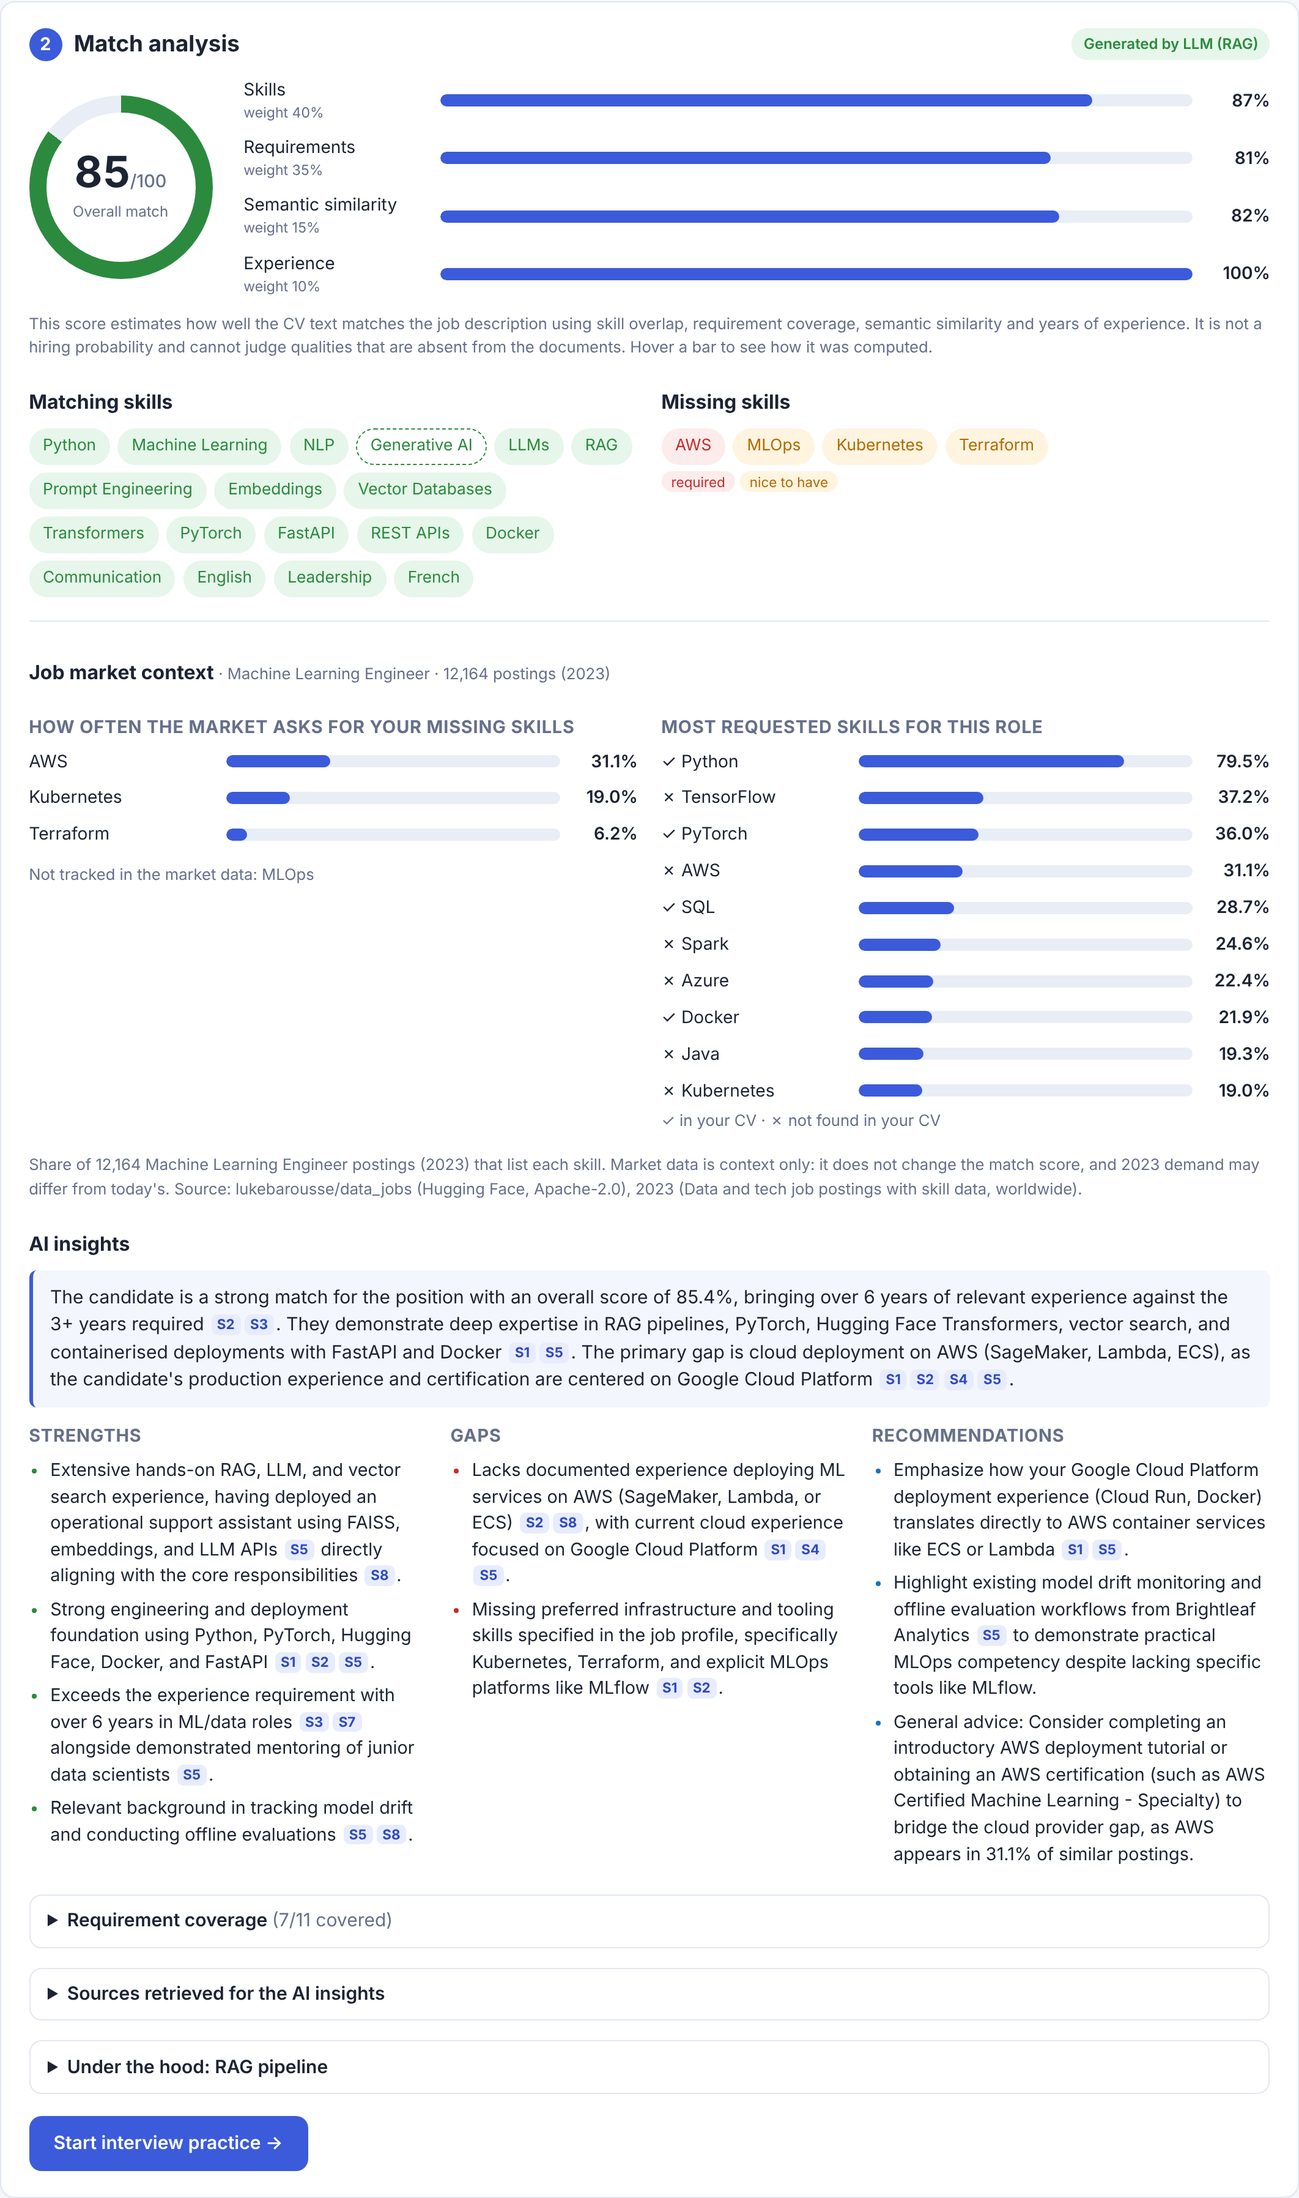
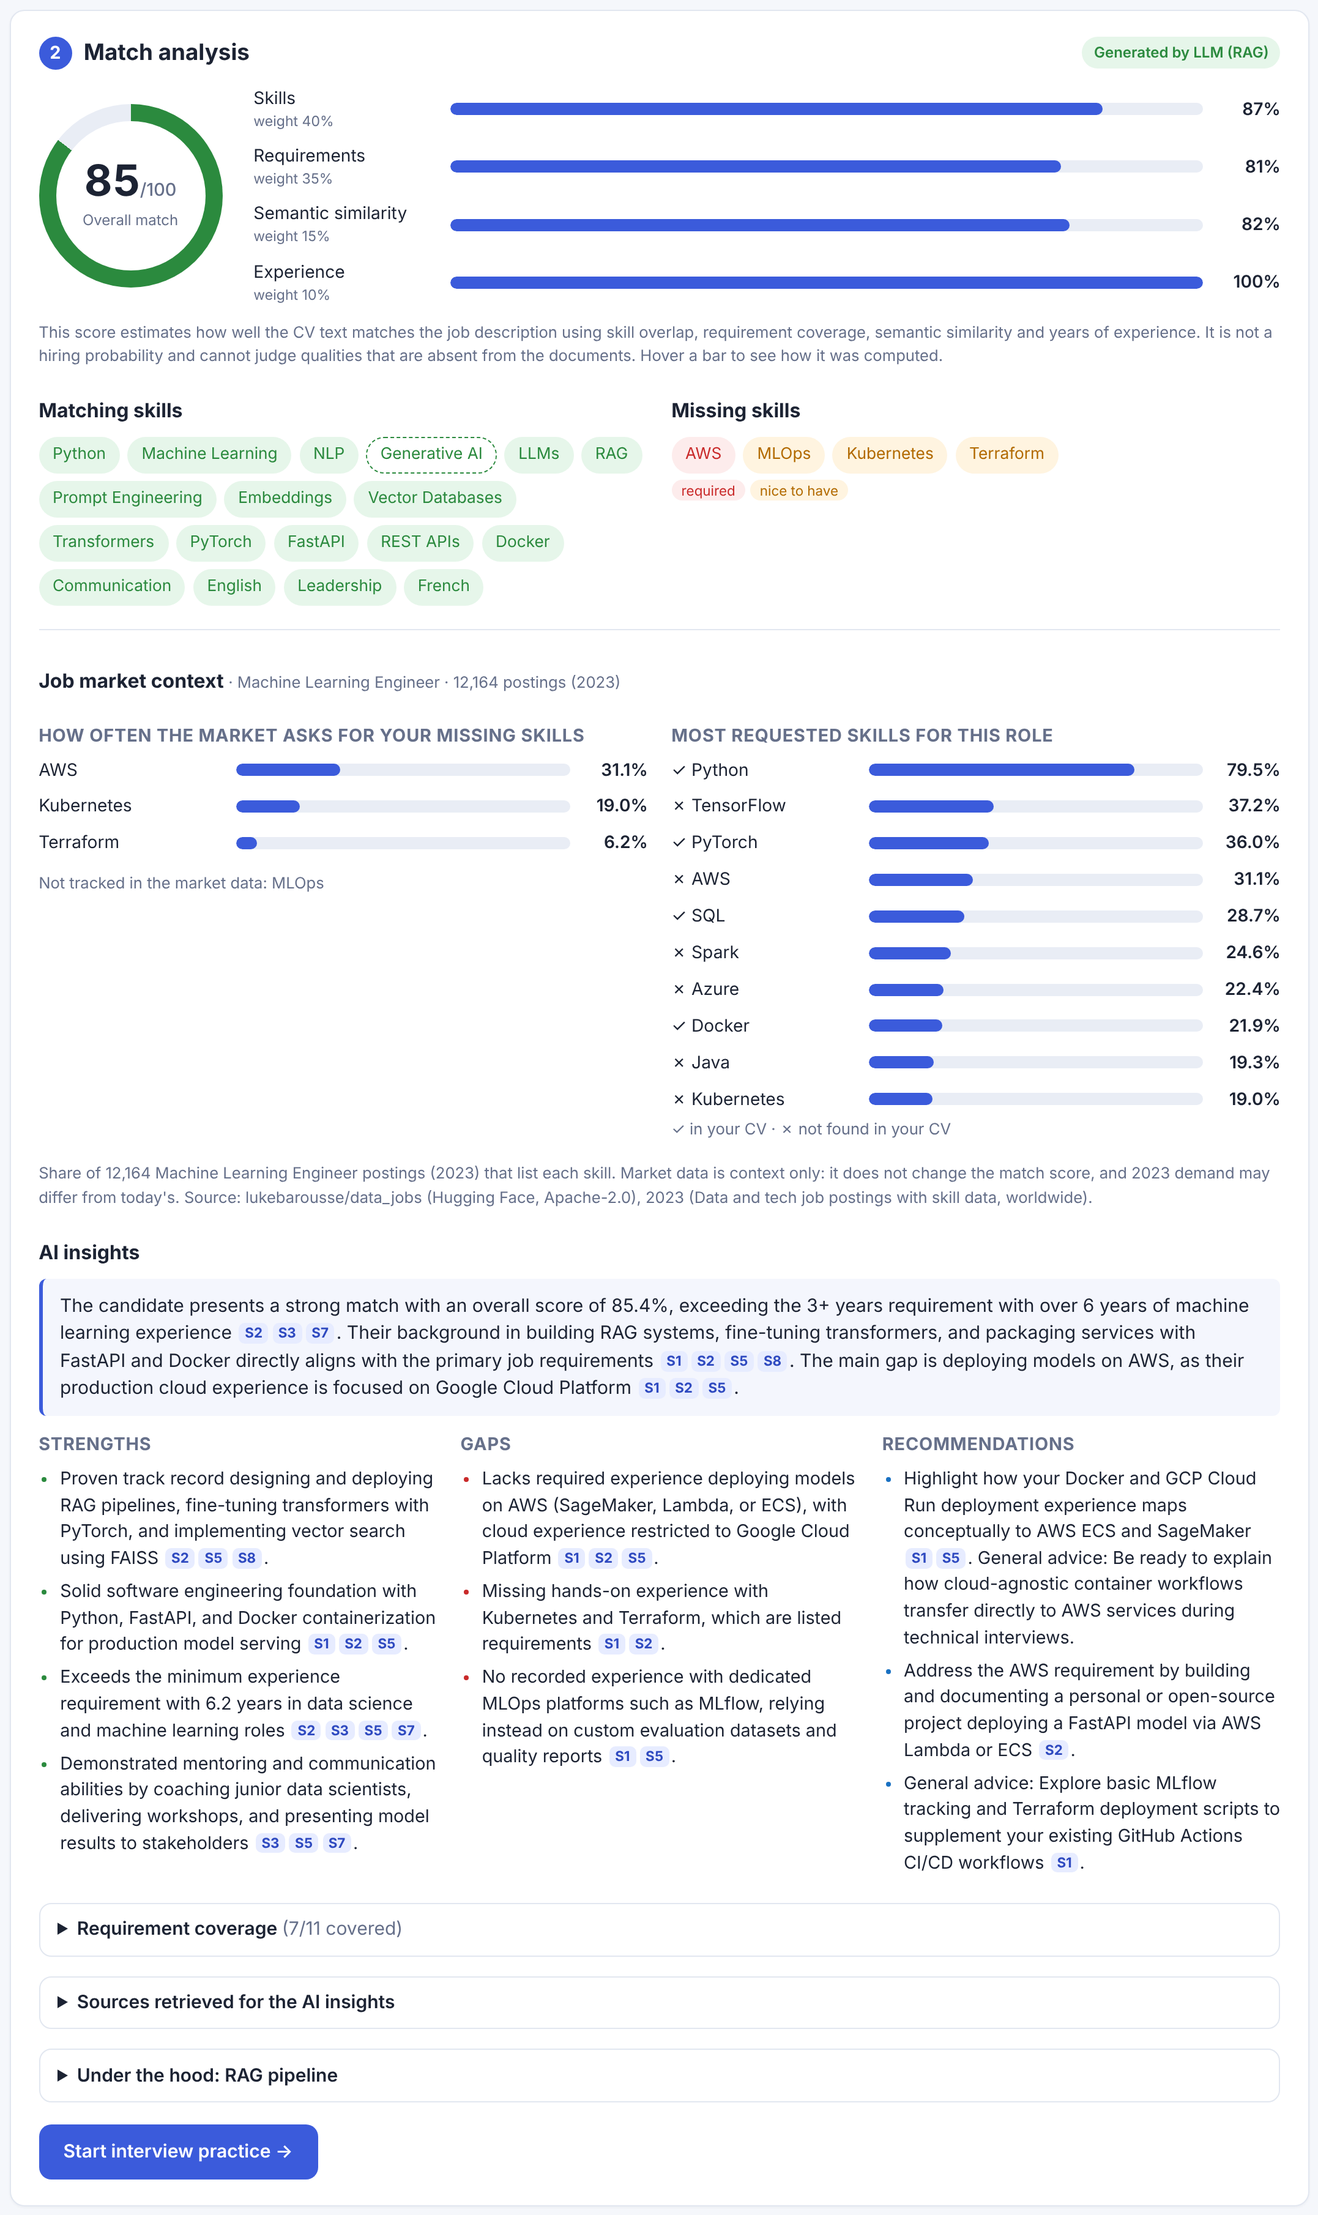
Document the Cloud Run deployment and add the verified 3:30 video script
- deploy/cloudrun/README.md: how the coach was deployed on Google Cloud
  Run (build from the repo's Dockerfile, Gemini key added without echoing
  it, checks, cold start, quota, costs). Hugging Face now requires a paid
  plan for Docker Spaces; its kit says so and points here.
- README, compliance audit, slide content, portfolio entry, Trello board
  and demo checklist: link to the live app.
- docs/screenshots: analysis, market context and interview feedback
  retaken on the live app with the sample documents and Gemini.
- Demo script: 3:30 video version; every number was checked on the live
  app and the published dashboard.

Claude-Session: https://claude.ai/code/session_01QCdrnMazZD32zhQhggebxX

diff --git a/demo_day/DEMO_SCRIPT.md b/demo_day/DEMO_SCRIPT.md
@@ -8,7 +8,7 @@
 | Project brief | Reliable **2–3 minute** live demo, expandable to **15–20 minutes** |
 | Later brief | Demo video of **3–4 minutes** |
 
-This script is therefore written as a **2-minute core**. Optional blocks extend it to about 3:30 if a longer video is allowed. Timings are targets; check them with a stopwatch during rehearsal.
+This file has a **2-minute core** for a live demo and a **3:30 video** version (below) for the 3–4 minute video. Timings are targets; check them with a stopwatch during rehearsal.
 
 All numbers below come from the project's saved results:
 - dashboard values: `dashboard/tableau/EXPECTED_VALUES.md`;
@@ -19,7 +19,7 @@ All numbers below come from the project's saved results:
 ## Before recording or going on stage (checklist)
 
 - [ ] `.env` contains a working LLM configuration. Check that the badge top-right shows `gemini-flash-latest` (or your model), not "offline".
-- [ ] `uvicorn app.main:app` is running. Run **one analysis beforehand** (it warms up the embedding model), then reload the page.
+- [ ] The app is running: the live app on Cloud Run (<https://ai-job-interview-coach-291756431151.europe-west1.run.app/>, open it a few minutes early because it sleeps when idle) or `uvicorn app.main:app` locally. Run **one analysis beforehand** (it warms up the embedding model), then reload the page.
 - [ ] The Tableau Public dashboard is open in a second tab: Dashboard 1, no filters.
 - [ ] The demo answer (step 6) is in the clipboard.
 - [ ] Browser zoom at 110–125 % so text is readable on a projector or video; notifications off.
@@ -54,6 +54,29 @@ Insert them after 0:40 (data) or after 2:00 (behind the scenes).
 | +25 s | Figure `reports/figures/stats/C_senior_skill_odds_ratios.png` | "Is AWS a senior skill? Statistically, yes: a Cochran-Mantel-Haenszel test within each role gives an odds ratio of 1.47 for senior postings. The effect is real but moderate, and I report effect sizes, not just p-values." |
 | +25 s | Figure `reports/figures/ml/ML_confusion_matrix.png` | "Can skills predict a role? A gradient-boosting classifier reaches a macro-F1 of 0.39 against 0.14 for a random baseline. Skills carry real information, but Data Analyst, Engineer and Scientist overlap heavily, which is itself an insight." |
 | +20 s | Coach → **Under the hood** and **Sources** panels | "Everything the AI says is grounded: sources are numbered, outputs are validated JSON, and if the LLM fails the app falls back to a labelled offline mode. The project has 195 automated tests." |
+
+---
+
+## 3:30 video (all numbers checked on the live app and the published dashboard, 2026-10-15)
+
+Use this version for a 3–4 minute video. Open beforehand: the deck, the [Tableau Public dashboard](https://public.tableau.com/app/profile/raphael.zafran/viz/AIJobMarketInterviewCoachMarketDashboards/D1-Overview) (no filters) and the [live app](https://ai-job-interview-coach-291756431151.europe-west1.run.app/), with one analysis already run to wake it up.
+
+| Time | Screen and clicks | What to say (≈ 480 words) |
+|---|---|---|
+| 0:00–0:15 | Title slide | "Job seekers prepare for interviews blindly: they don't know what employers ask for, how their CV fits a job, or which questions will come. I built the **AI Job Market & Interview Coach**: it goes from job-market data to personalised interview practice." |
+| 0:15–0:50 | Tableau **D1**, no filters → Role Family = **Data Engineer** → Country Group = **Germany** | "First, the market. I collected about 788,000 postings from two public sources, cleaned them with pandas and loaded them into PostgreSQL. Across 2023 data roles, SQL appears in 57.7 % of postings. For Data Engineers it rises to 67.5 %, Python 65 %, AWS 39 %. Add Germany, and Azure, at 36 %, overtakes AWS at 33 %: the right cloud depends on where you apply." |
+| 0:50–1:10 | Tableau **D3** → Job Family = **Data & AI** → right-click a posting | "This second view is live data: 3,026 postings I pulled from the Arbeitnow API in October 2026, all occupations, mostly in Germany. English is asked in 62.6 % of them. For Data & AI jobs, Python comes second at 43 %. Every row links back to the original ad." |
+| 1:10–1:25 | Backup slides: statistics, then role classifier | "I didn't stop at counts. Within the same role, 64 of 71 skills are significantly more or less frequent in senior postings; AWS has an odds ratio of 1.47. And a classifier predicts the role from skills alone with a macro-F1 of 0.39, against 0.14 for a random baseline." |
+| 1:25–1:45 | Live app → **Load sample documents** → **Analyze match** | "Now the coach, deployed on Google Cloud Run. I load a fictional CV and a Machine Learning Engineer job. The app splits both documents into chunks, embeds them with a MiniLM transformer and indexes them in FAISS for semantic search." |
+| 1:45–2:15 | Score ring, breakdown, missing skills, **Job market context**, AI insights | "The match is 85 out of 100, and the score is transparent: skills 87 %, requirements 81 %, semantic similarity 82 %, experience 100 %. AWS is a required skill missing from the CV, and the coach connects it to the market: AWS appears in 31.1 % of 12,164 Machine Learning Engineer postings. The AI insights cite their sources: S1, S2… are passages of the CV and the job." |
+| 2:15–2:55 | **Start interview practice** → Question type **Skill gap** → **New question** → paste the demo answer → **Submit answer** | "Interview practice. The coach retrieves the relevant passages and asks about the gap, AWS, without pretending the CV mentions it. I answer with a short, honest answer… It scores about 5 out of 10: relevant, but not specific enough. The coach lists what is missing and writes a stronger answer that only uses facts from my CV, with sources, and labels everything else as general advice." |
+| 2:55–3:20 | Open **Sources used for the evaluation**, then **Under the hood: RAG pipeline** | "Under the hood: retrieval, generation and validation are visible. Outputs are checked against a schema; if the language model fails, the app switches to a clearly labelled offline mode instead of crashing. The project has 195 automated tests and runs in Docker." |
+| 3:20–3:35 | Back to the dashboard or the closing slide | "Data tells you what the market wants; the AI coach helps you prepare for it. Thank you." |
+
+**Before recording:**
+- The LLM wording changes from run to run; the computed numbers (85/100, 31.1 %, dashboard values) do not. If the answer score is not exactly 5, say the value shown.
+- Cut the 10–15 s waits for the LLM in editing.
+- If the app shows "LLM unavailable: offline fallback", the Gemini quota or key is the cause; the demo still works, but re-record when Gemini is back.
 
 ---
 

diff --git a/deploy/cloudrun/README.md b/deploy/cloudrun/README.md
@@ -1,0 +1,46 @@
+# Deploying the coach on Google Cloud Run
+
+**Live app:** <https://ai-job-interview-coach-291756431151.europe-west1.run.app/> (deployed 2026-10-15)
+
+**Why Cloud Run:**
+- The coach loads PyTorch + sentence-transformers and needs about 1 GB of RAM, more than most free tiers (512 MB).
+- Since mid-2026, Hugging Face only allows Docker Spaces on paid plans (PRO), so the [Hugging Face kit](../huggingface/README.md) now needs a PRO account.
+- Cloud Run builds and runs the project's own `Dockerfile` unchanged. A demo fits in its free tier, and new Google Cloud accounts get free trial credits.
+
+**What gets deployed:** the coach (FastAPI + web UI). Not the data pipeline or PostgreSQL: their results are already inside the app.
+
+## Deploy (about 30 minutes, mostly waiting for the build)
+
+1. On <https://console.cloud.google.com>, create a project and enable billing (the free trial is enough).
+2. Open **Cloud Shell** (the `>_` icon, top right). It is a terminal in the browser with `gcloud` and `git` installed.
+3. Build and deploy:
+
+   ```bash
+   git clone https://github.com/Raphzaf/ai-job-interview-coach.git
+   cd ai-job-interview-coach
+   gcloud run deploy ai-job-interview-coach --source . --region europe-west1 \
+     --port 8000 --memory 2Gi --cpu 1 --allow-unauthenticated \
+     --set-env-vars LLM_MODEL=gemini-flash-latest,LLM_BASE_URL=https://generativelanguage.googleapis.com/v1beta/openai/
+   ```
+
+   Answer **Y** when asked to enable APIs or create an Artifact Registry repository. Cloud Build builds the image (10–15 minutes), then the command prints the service URL.
+4. Add the Gemini key without echoing it on screen or storing it in the shell history:
+
+   ```bash
+   read -s -p "Gemini key: " K && gcloud run services update ai-job-interview-coach \
+     --region europe-west1 --update-env-vars LLM_API_KEY=$K && unset K
+   ```
+
+   Without a key, the app runs in labelled offline mode.
+5. **Check it:**
+   - `<URL>/api/health` returns `"llm_configured": true` and `"llm_model": "gemini-flash-latest"`;
+   - in the web UI, **Load sample documents → Analyze match**: the badge shows `gemini-flash-latest` and the "Job market context" panel appears.
+
+**Updating after a code change:** run step 3 again from an up-to-date clone (`git pull`). The environment variables, including the key, are kept.
+
+## Things to know
+
+- **Cold start:** with no traffic, Cloud Run stops the container. The next visit waits about 30–60 seconds while the model loads. **Open the app a few minutes before presenting.** `--min-instances 1` removes the wait but is billed continuously.
+- **Your API quota is public.** Anyone who opens the app uses your Gemini key. When the free quota is exhausted, the app falls back to offline mode and says so. Remove the key after the Demo Day if needed (`gcloud run services update ... --remove-env-vars LLM_API_KEY`).
+- **Privacy:** visitors' CVs are processed in memory and sent to the LLM provider. Use the sample documents or fictional CVs.
+- **Costs:** check *Billing → Reports* in the console. To stop everything: `gcloud run services delete ai-job-interview-coach --region europe-west1`.

diff --git a/README.md b/README.md
@@ -4,11 +4,13 @@
 
 Final project, Data Science & Generative AI Bootcamp.
 
+**Live app:** <https://ai-job-interview-coach-291756431151.europe-west1.run.app/> · **Dashboard:** [Tableau Public](https://public.tableau.com/app/profile/raphael.zafran/viz/AIJobMarketInterviewCoachMarketDashboards/D1-Overview)
+
 | Match analysis with market context | Interview practice & feedback |
 |---|---|
 | ![Match analysis](docs/screenshots/analysis-with-market.png) | ![Interview feedback](docs/screenshots/interview-feedback.png) |
 
-*Screenshots taken with the fictional sample documents and Gemini (`gemini-flash-latest`) as LLM.*
+*Screenshots taken on the live app (Google Cloud Run, 2026-10-15) with the fictional sample documents and Gemini (`gemini-flash-latest`) as LLM.*
 
 ---
 
@@ -407,7 +409,7 @@ docker compose up --build
 
 `docker compose up` starts the coach only. PostgreSQL is an optional service in the `db` profile (see below). The image uses CPU-only PyTorch and includes the embedding model, so the container needs no internet access except to call the LLM API. The image installs the exact package versions verified on 2026-10-12 (`constraints.txt`, torch pinned in the `Dockerfile`), so a later rebuild produces the same environment.
 
-**Deploying online:** one command publishes the coach as a free Hugging Face Space (Docker). See [`deploy/huggingface/README.md`](deploy/huggingface/README.md).
+**Deploying online:** the coach runs on Google Cloud Run: <https://ai-job-interview-coach-291756431151.europe-west1.run.app/>. Steps in [`deploy/cloudrun/README.md`](deploy/cloudrun/README.md). The [Hugging Face kit](deploy/huggingface/README.md) still works, but Docker Spaces now require a paid Hugging Face plan.
 
 ## Reproducing the Data Pipeline
 

diff --git a/demo_day/SLIDES_CONTENT.md b/demo_day/SLIDES_CONTENT.md
@@ -69,7 +69,7 @@ If the screenshot is too dense, add 5 short bullets next to it:
 |---|---|
 | GitHub | https://github.com/Raphzaf/ai-job-interview-coach |
 | 2-min video | [ ] unlisted YouTube/Loom link (script: `demo_day/DEMO_SCRIPT.md`) |
-| Deployed link | [ ] Hugging Face Space URL after deployment (`deploy/huggingface/README.md`) |
+| Deployed link | https://ai-job-interview-coach-291756431151.europe-west1.run.app/ |
 | Portfolio link | [ ] your portfolio page (content: `demo_day/portfolio/portfolio_entry.md`) |
 | Technical article link | [ ] Medium/LinkedIn/dev.to article (draft: `docs/TECHNICAL_ARTICLE.md`) |
 | Dashboard (extra) | https://public.tableau.com/app/profile/raphael.zafran/viz/AIJobMarketInterviewCoachMarketDashboards/D1-Overview |
@@ -95,7 +95,7 @@ The template shows a timeline grid with "Feature X / Y / Z". Suggested rows, pas
 | Statistics + ML classifier | ✅ Done (week 2) |
 | Market context inside the coach | ✅ Done (week 2) |
 | Tableau Public dashboard | ✅ Done (week 3) |
-| Deployment (Hugging Face Space) | [ ] mark it done once live |
+| Deployment (Google Cloud Run) | ✅ Done (week 3) |
 | **Next:** scheduled data refresh, multilingual support, adaptive interview difficulty | Planned |
 
 [ ] Adjust the week labels to your real calendar. The Git history shows the first commit on 2026-10-08.

diff --git a/docs/FINAL_PROJECT_COMPLIANCE_AUDIT.md b/docs/FINAL_PROJECT_COMPLIANCE_AUDIT.md
@@ -36,7 +36,7 @@
 | Trello screenshot (feature list) | **MANUAL** | Board content: `demo_day/TRELLO_BOARD.md` |
 | GitHub link | DONE | https://github.com/Raphzaf/ai-job-interview-coach |
 | 2-minute video | **MANUAL** | Script and checklist: `demo_day/DEMO_SCRIPT.md` |
-| Deployed link | **MANUAL** | Hugging Face Space ready to push: `deploy/huggingface/` (app verified in a container on 2026-10-12) |
+| Deployed link | DONE | Google Cloud Run: https://ai-job-interview-coach-291756431151.europe-west1.run.app/ (health check and a full sample analysis with Gemini verified on 2026-10-15); steps in `deploy/cloudrun/` |
 | Portfolio link | **MANUAL** | Content: `demo_day/portfolio/portfolio_entry.md` |
 | Technical article link | **MANUAL** | Draft: `docs/TECHNICAL_ARTICLE.md` |
 | CV, LinkedIn, job tracker links | **MANUAL** | Personal |

diff --git a/demo_day/TRELLO_BOARD.md b/demo_day/TRELLO_BOARD.md
@@ -27,6 +27,7 @@ The template asks for a screenshot of a Trello board showing the feature list. T
 | Role-family classifier (scikit-learn, macro-F1 0.393) | Stats/ML |
 | Tableau data extracts + 25 validation checks | Data |
 | Build and publish the Tableau Public dashboard | Data |
+| Deploy the coach (Google Cloud Run) | Delivery |
 | CV/job extraction, cleaning, token-aware chunking | GenAI |
 | Embeddings (MiniLM) + FAISS semantic search | GenAI |
 | RAG pipeline with sources + validated JSON outputs | GenAI |
@@ -44,7 +45,6 @@ Move each card to *Done* once it is finished:
 
 | Card | Label |
 |---|---|
-| Deploy the coach (Hugging Face Space) | Delivery |
 | Record the 2-minute demo video | Delivery |
 | Slides from the official template | Delivery |
 | Technical article + portfolio entry | Delivery |

diff --git a/deploy/huggingface/README.md b/deploy/huggingface/README.md
@@ -1,5 +1,7 @@
 # Deploying the coach on Hugging Face Spaces
 
+> **Update (2026-10):** Hugging Face now requires a paid plan (PRO) to create Docker Spaces. The live app runs on Google Cloud Run instead: see [`../cloudrun/README.md`](../cloudrun/README.md). This kit still works with a PRO account.
+
 **Why Hugging Face Spaces:**
 - The coach loads PyTorch + sentence-transformers, so it needs about 1 GB of RAM.
 - Free tiers of most hosts (512 MB) are too small. The free "CPU basic" Space hardware (2 vCPU, 16 GB RAM) runs the project's own `Dockerfile` unchanged.

diff --git a/demo_day/portfolio/portfolio_entry.md b/demo_day/portfolio/portfolio_entry.md
@@ -35,7 +35,7 @@ Python · pandas · NumPy · PostgreSQL · SQL · SciPy · statsmodels · scikit
 ## Links
 
 - GitHub: https://github.com/Raphzaf/ai-job-interview-coach
-- [ ] Live demo (Hugging Face Space)
+- Live demo: https://ai-job-interview-coach-291756431151.europe-west1.run.app/
 - [ ] 2-minute video
 - Tableau Public dashboard: https://public.tableau.com/app/profile/raphael.zafran/viz/AIJobMarketInterviewCoachMarketDashboards/D1-Overview
 - [ ] Technical article
